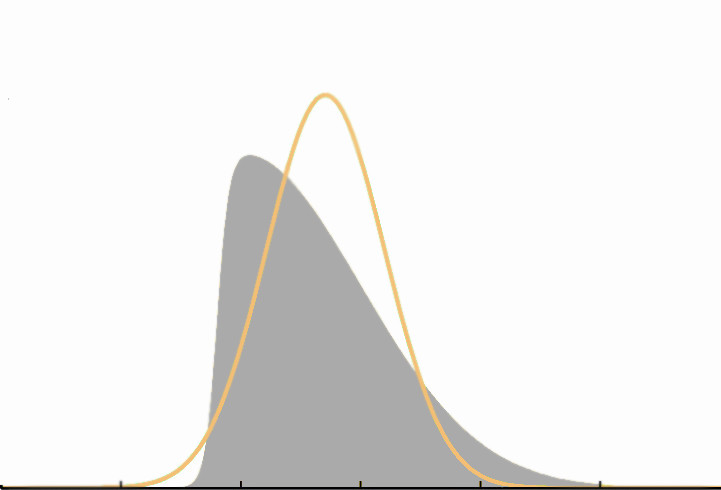
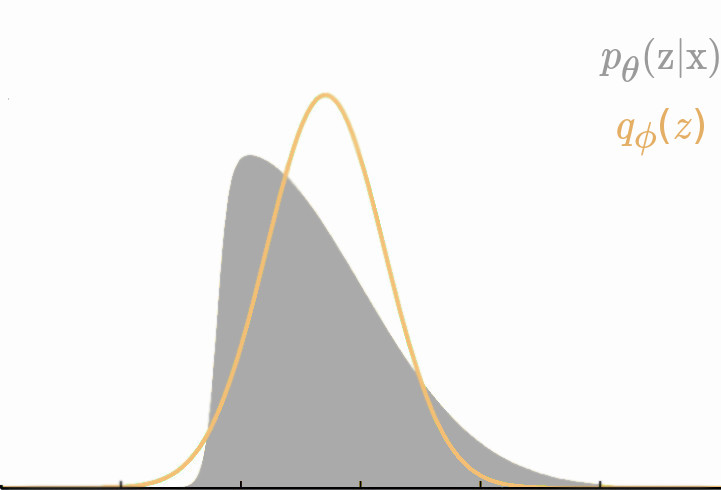
Experiment with math fonts

Changed region(s): [[0.8239, 0.0918, 1.0, 0.1837], [0.8544, 0.2143, 0.9764, 0.3061]]

diff --git a/_includes/footer.html b/_includes/footer.html
@@ -1,7 +1,7 @@
 <footer class="site-footer">
 
-  <div class="wrapper">
-  	<p>This site was built using <a href="http://jekyllrb.com" target="_blank">Jekyll</a> and is hosted on <a href="https://github.com" target="_blank">Github</a> Photos from <a href="https://unsplash.com" target="_blank">Unsplash</a> and text generated with <a href="http://hipsum.co" target="_blank">Hipster Ipsum</a>. &#169; 2015</p>
+  <div class="wrapper" align="center">
+  	This site was built using <a href="http://jekyllrb.com" target="_blank">Jekyll</a> and is based on the <a href="http://liabogoev.com/-folio" target_="blank">*folio</a> theme.
   </div>
 
 </footer>

diff --git a/_sass/_layout.scss b/_sass/_layout.scss
@@ -276,3 +276,7 @@ text-align: center;
 vertical-align: middle;
 font-size: $caption_font_size;
 }
+
+.mathmode {
+    font-size: 120%;
+}

diff --git a/README.md b/README.md
@@ -1,51 +1,5 @@
-# *folio
-A simple theme for showcasing your work, emphasis on whitespace, transparency, and helvetica. 
+## Text on figures
 
-
-<a href="http://liabogoev.com/-folio">Live Demo</a>
-
-<hr/>
-
-
-## Features
-
-### Collections
-This Jekyll theme implements collections to let you break up your work into categories. The example is divided into poetry and portfolio, but easily revamp this into recipes, apps, short stories, limmericks, whatever your creative work is. 
-> To do this, edit the collections in the config file, create a corresponding folder, and update the portfolio and poetry source files. 
-
-Three different layouts are included—the poetry layout, for a simple list of entries, the blog layout (index.html), for more detailed descriptive list of entries, and the portfolio layout. The portfolio layout overlays a descriptive hoverover on a background image. If no image is provided, the square is auto-filled with the chosen theme color. Thumbnail sizing is not necessary, as the grid crops images perfectly. 
-
-### Portfolio Specifics
-You can easily add full pages for each of the projects in your portfolio. If you want one to link to an external website, create a file for it in _portfolio, and  fil in the YAML front matter as you would for another, but with a redirect, like so: 
-
-	---
-	layout: post
-	title: Project
-	description: a project that redirects to another website
-	img:
-	redirect: https://otherpage.com
-	--- 
-
-### Theming
-Six beautiful theme colors have been selected to choose from. The default is red, but quickly change it by editing the _base.scss file in line 40. The color variable are listed there, as well. 
-
-### Photos
-Photo formatting is made simple using rows of a 3-column system. Make photos 1/3, 2/3, or full width. Easily create beautiful grids within your blog posts and projects pages. 
-
-### Code Highlighting
-This theme implements Jekyll's built in code syntax highlighting with Pygments. Just use a liquid tag to delineate your code: 
-{% highlight python %}
-	code code code
-{% endhighlight %}
-
-
-<hr/>
-The MIT License (MIT)
-Copyright (c) 2015 Lia Bogoev
-
-Permission is hereby granted, free of charge, to any person obtaining a copy of this software and associated documentation files (the "Software"), to deal in the Software without restriction, including without limitation the rights to use, copy, modify, merge, publish, distribute, sublicense, and/or sell copies of the Software, and to permit persons to whom the Software is furnished to do so, subject to the following conditions:
-
-The above copyright notice and this permission notice shall be included in all copies or substantial portions of the Software.
-
-THE SOFTWARE IS PROVIDED "AS IS", WITHOUT WARRANTY OF ANY KIND, EXPRESS OR IMPLIED, INCLUDING BUT NOT LIMITED TO THE WARRANTIES OF MERCHANTABILITY, FITNESS FOR A PARTICULAR PURPOSE AND NONINFRINGEMENT. IN NO EVENT SHALL THE AUTHORS OR COPYRIGHT HOLDERS BE LIABLE FOR ANY CLAIM, DAMAGES OR OTHER LIABILITY, WHETHER IN AN ACTION OF CONTRACT, TORT OR OTHERWISE, ARISING FROM, OUT OF OR IN CONNECTION WITH THE SOFTWARE OR THE USE OR OTHER DEALINGS IN THE SOFTWARE.
-
+Font size (regular): 40
+Font size (subscript): 38
+Math font: MathJax_Math, MathJax_Math Italic
